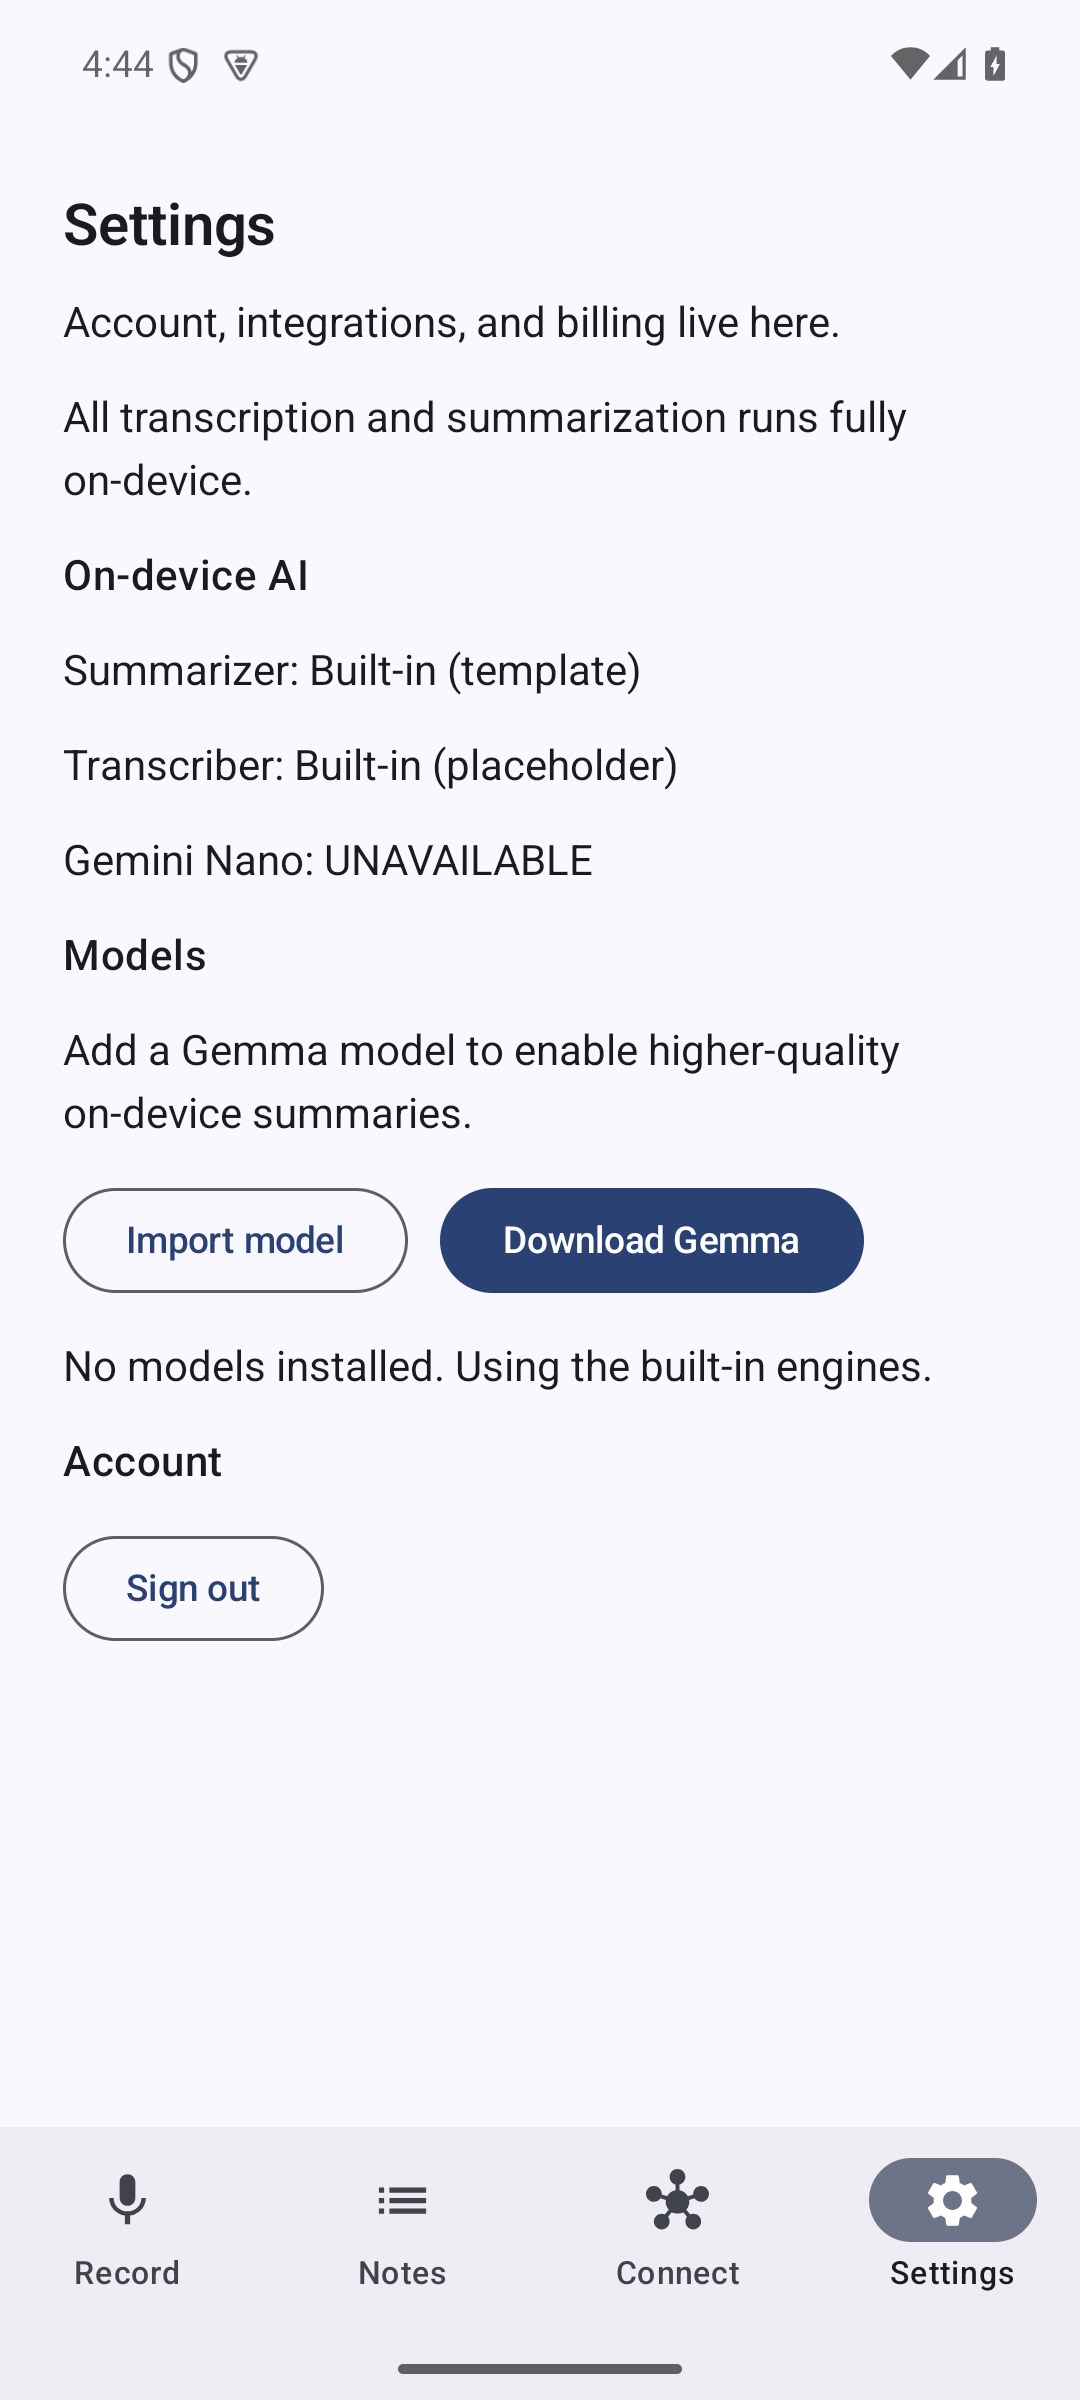
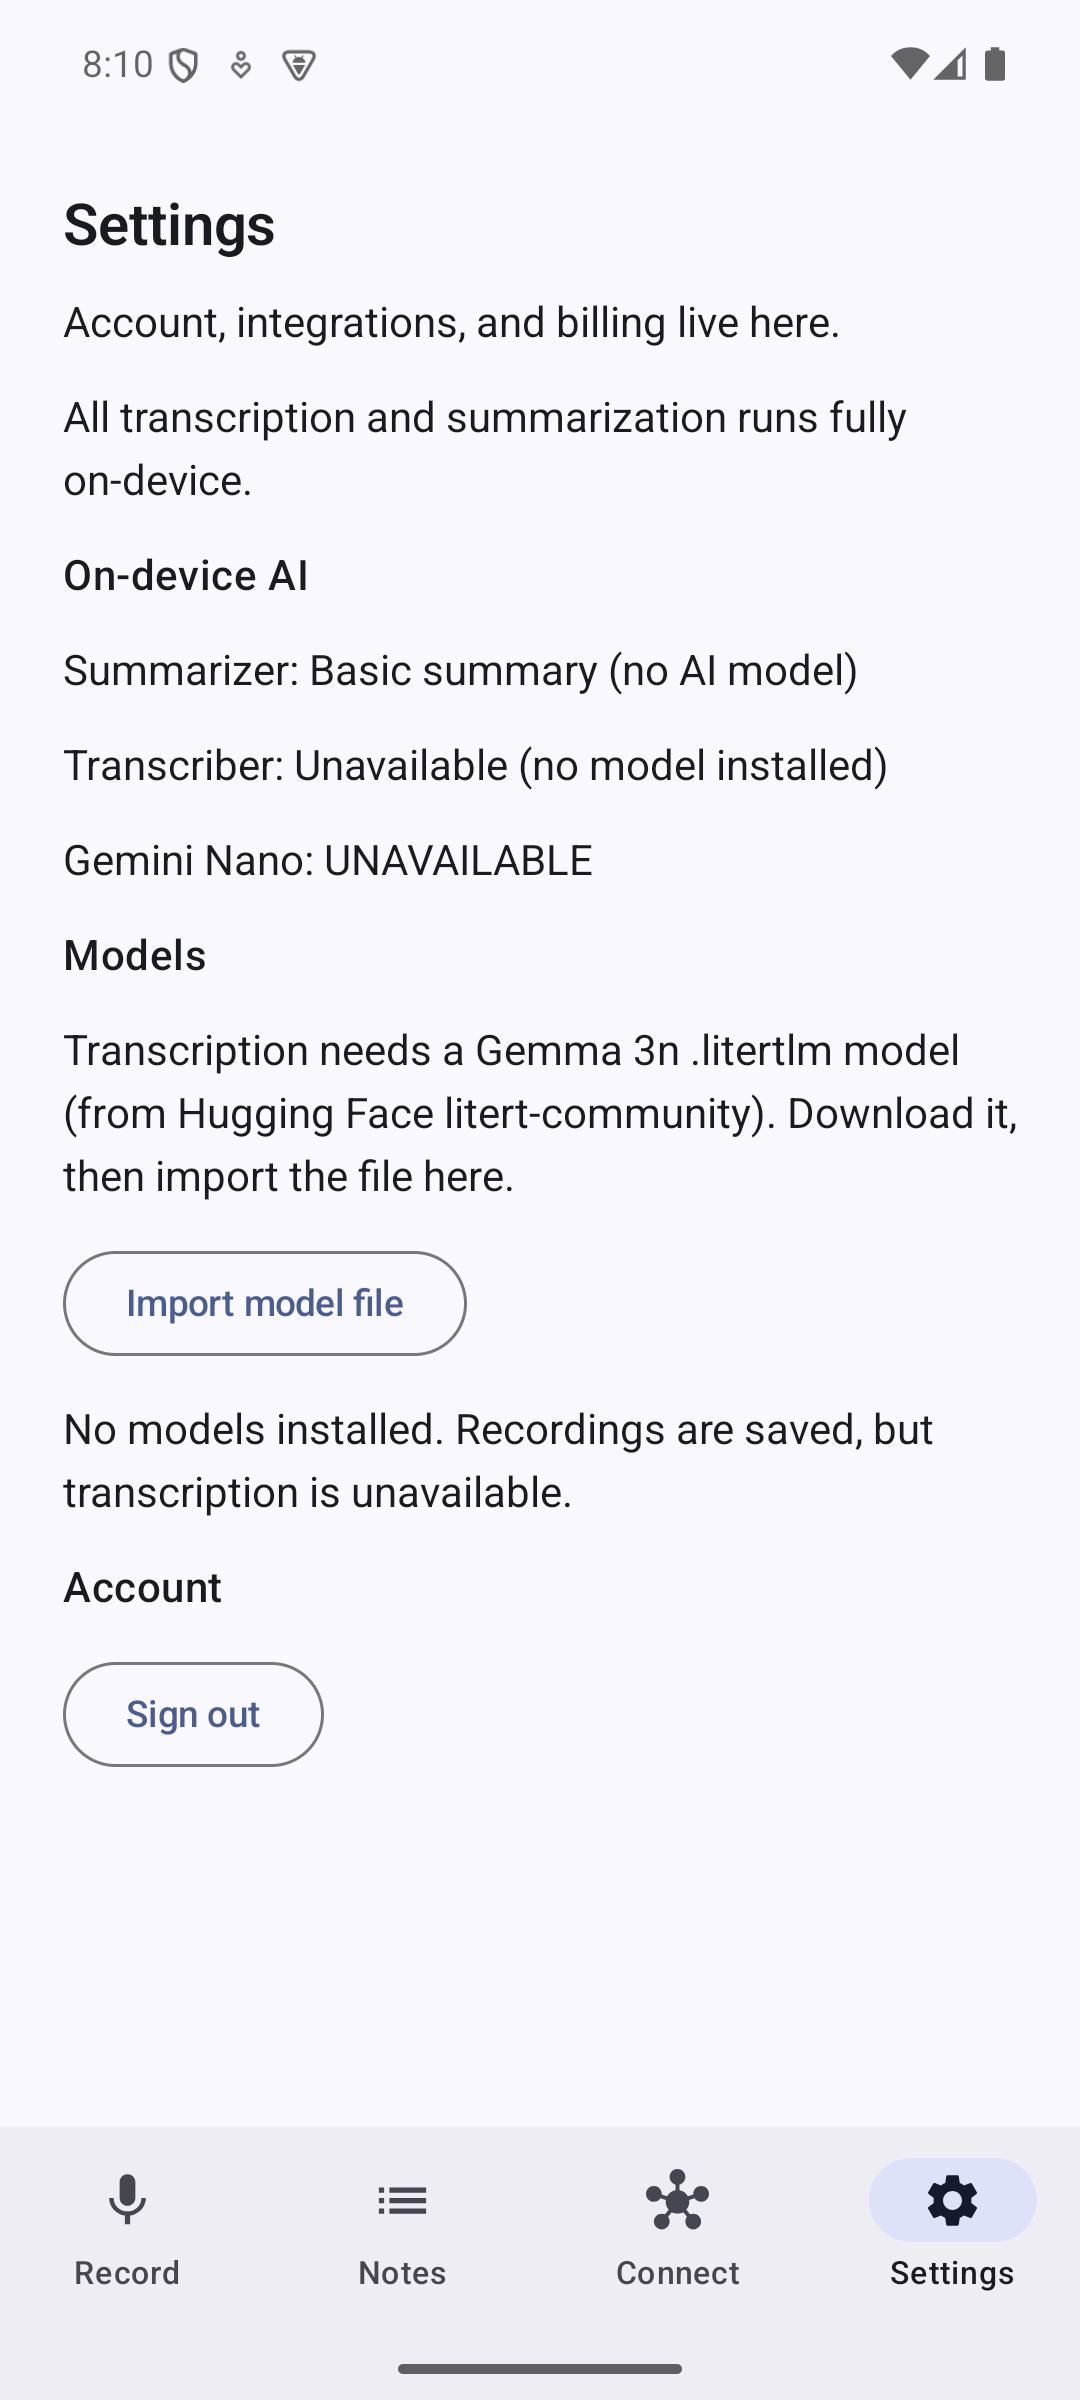
README: fresh emulator screenshots and an accurate engine story
- Three screenshots from an Android 15 emulator running main (record,
  Settings engines, the audio-only result with no model installed).
  store/screenshots/04_settings.png refreshed too; the old one showed
  the placeholder engines and the broken download button.
- Say plainly that transcription needs an imported Gemma 3n model, that
  SpeechRecognizer file input is not wired, which providers really
  export, and that the v1.0.0 APKs predate the fallback fix.
- Test count from this run (356), CI badge, links to the sibling repos.
- ROADMAP rewritten to the current state (shared across the three repos).

diff --git a/README.md b/README.md
@@ -1,90 +1,97 @@
-# notova-android
+# Notova for Android
 
-Notova for Android — on-device AI voice capture & notes (Kotlin/Jetpack Compose). Record from any
-mic or audio file; transcribe and summarize **fully on-device**; export to your apps.
+[![Android CI](https://github.com/sandeepvijayarao09/notova-android/actions/workflows/android.yml/badge.svg)](https://github.com/sandeepvijayarao09/notova-android/actions/workflows/android.yml)
+[![License: Apache-2.0](https://img.shields.io/badge/License-Apache_2.0-blue.svg)](LICENSE)
 
-The backend exists only for accounts, OAuth integration brokering, metadata sync, and billing — it
-**never** performs AI compute. Transcription and summarization run locally (see
-[On-device AI engines](#on-device-ai-engines)).
+Record a meeting or voice memo, and Notova transcribes and summarizes it on the phone
+with Gemma running locally. Kotlin, Jetpack Compose, nine Gradle modules.
 
-**1.0.0 — working on-device pipeline**: record (foreground service) → transcribe → summarize →
-save, with an offline "Continue without an account" mode.
+<p>
+  <img src="docs/screenshots/android_record.png" width="250" alt="Record screen">
+  <img src="docs/screenshots/android_settings.png" width="250" alt="Settings showing which on-device engines are active">
+  <img src="docs/screenshots/android_unavailable.png" width="250" alt="Record screen after a recording with no transcription model installed">
+</p>
 
-## Module map
+<sub>Captured on an Android 15 emulator with no model installed. Notova keeps the audio
+and says transcription is unavailable instead of inventing a transcript.</sub>
 
-| Module | Type | Responsibility |
-| --- | --- | --- |
-| `:app` | Android application (`com.notova.app`) | `@HiltAndroidApp` `NotovaApp`, `MainActivity` (Compose + Navigation: Record / Notes / Settings), `ProcessRecordingWorker` (WorkManager). Depends on every module. |
-| `:core` | Android library (`com.notova.core`) | Pure domain: models, the on-device pipeline interfaces (`AudioSource`, `Transcriber`, `Summarizer`, `IntegrationExporter`), fallback impls, and `PipelineUseCase`. |
-| `:ai` | Android library (`com.notova.ai`) | On-device engines and resolvers: Gemma via LiteRT-LM (transcription + summarization), Gemini Nano via ML Kit GenAI, Android SpeechRecognizer; `ModelStore` / model downloader. Hilt `AiModule` wires the engine chains. Has tests. |
-| `:data` | Android library (`com.notova.data`) | Room database (`Recording` + `Summary` entities/DAOs), `RecordingRepository` impl, DataStore preferences, Hilt modules. |
-| `:design` | Android library (`com.notova.design`) | Compose `NotovaTheme`, typography, shared components. |
-| `:integrations` | Android library (`com.notova.integrations`) | Retrofit `NotovaBackendApi` for the `/v1` contract + DTOs, `IntegrationExporter` impl, networking Hilt module. |
-| `:feature:record` | Android library (`com.notova.feature.record`) | `RecordScreen` + `RecordViewModel`; `MediaRecorderAudioSource` (MediaRecorder capture, Bluetooth SCO routing, file import via Storage Access Framework `OpenDocument`). |
-| `:feature:notes` | Android library (`com.notova.feature.notes`) | `NotesListScreen` / `NoteDetailScreen` + ViewModels. |
+Part of Notova:
+[notova-ios](https://github.com/sandeepvijayarao09/notova-ios) ·
+[notova-backend](https://github.com/sandeepvijayarao09/notova-backend) ·
+[roadmap](ROADMAP.md)
 
-Supporting files: `gradle/libs.versions.toml` (version catalog), `config/detekt.yml`, `.editorconfig`,
-`.github/workflows/android.yml` (temurin JDK 17, `./gradlew assembleDebug`).
+## Highlights
 
-## Build instructions
+- **On-device engines, picked at call time.** `ResolvingTranscriber` and
+  `ResolvingSummarizer` try engines in priority order and report the active one in
+  Settings.
 
-**JDK 17 is required.** A newer JDK on `PATH` will break AGP/Kotlin — always pin `JAVA_HOME`.
+  | Stage | Engine chain |
+  | --- | --- |
+  | Transcription | Gemma 3n audio via LiteRT-LM (16 kHz mono PCM, 30 s windows). No fake fallback. |
+  | Summaries | Local Gemma via LiteRT-LM → Gemini Nano (ML Kit GenAI, AICore devices) → basic extract labelled "no AI model" |
+
+  One imported Gemma 3n `.litertlm` file powers both transcription and summaries.
+- **Background-safe capture**: a foreground recording service, Bluetooth SCO routing,
+  file import through the Storage Access Framework, and WorkManager processing for long
+  imports.
+- **Hilt, Room, DataStore, Retrofit, WorkManager**; ktlint, detekt, Android Lint and an R8
+  release build in CI.
+- **356 JVM unit and Robolectric tests**, all run in CI on every push.
+
+## Try it
+
+The [v1.0.0 release](https://github.com/sandeepvijayarao09/notova-android/releases/tag/v1.0.0)
+has test-signed APKs (`arm64-v8a` for phones, `x86_64` for emulators). They predate the
+honest-fallback change below, so build from `main` for the current behavior.
+
+To transcribe, download a Gemma 3n LiteRT-LM model (for example
+`gemma-3n-E2B-it-int4.litertlm` from the `litert-community` org on Hugging Face; you must
+accept Gemma's license there), then use **Settings → Import model file**. Without a model,
+recordings are saved and marked as not transcribed. `SpeechRecognizer` is in the chain but
+reports itself unavailable: feeding it a recorded file is not wired yet.
+
+## Build
+
+JDK 17 is required; newer JDKs break this AGP/Kotlin combination.
 
 ```bash
-# Point local.properties at your SDK (gitignored):
-echo "sdk.dir=$HOME/Library/Android/sdk" > local.properties
+git clone https://github.com/sandeepvijayarao09/notova-android.git
+cd notova-android
+echo "sdk.dir=$HOME/Library/Android/sdk" > local.properties   # your SDK path
 
-# Build the debug APK
-JAVA_HOME=/opt/homebrew/opt/openjdk@17 ./gradlew :app:assembleDebug
-
-# Unit tests
-JAVA_HOME=/opt/homebrew/opt/openjdk@17 ./gradlew testDebugUnitTest
-
-# Static analysis
-JAVA_HOME=/opt/homebrew/opt/openjdk@17 ./gradlew detekt ktlintCheck
+export JAVA_HOME=/path/to/jdk-17
+./gradlew :app:assembleDebug          # APKs in app/build/outputs/apk/debug/
+./gradlew testDebugUnitTest           # unit + Robolectric tests
+./gradlew ktlintCheck detekt lint     # static analysis
 ```
 
-### Toolchain versions
+### Accounts and export (optional)
 
-| Tool | Version |
+Sign-in, sync and export go through [notova-backend](https://github.com/sandeepvijayarao09/notova-backend),
+which has no public deployment. The default backend URL is `http://10.0.2.2:8787/`, i.e.
+a local `npm run dev` server seen from the emulator; cleartext HTTP is allowed only for
+that host and localhost. Build against another deployment with
+`./gradlew assembleDebug -Pnotova.backendUrl=https://your-host/`. Providers match the
+backend: Notion export works; Google, Slack and Salesforce connect but the backend
+returns 501 for export.
+
+## Modules
+
+| Module | Responsibility |
 | --- | --- |
-| Android Gradle Plugin | 8.7.3 |
-| Kotlin | 2.0.21 (Compose compiler = built-in `kotlin.plugin.compose`) |
-| Gradle (wrapper) | 8.13 |
-| compileSdk / targetSdk | 35 |
-| minSdk | 26 |
-| JDK | 17 |
+| `:app` | `NotovaApp`, `MainActivity` (Record / Notes / Connect / Settings), `ProcessRecordingWorker`, recording service |
+| `:core` | Domain models, pipeline interfaces, `PipelineUseCase`, the basic extractive summarizer |
+| `:ai` | Gemma via LiteRT-LM (transcription and summaries), Gemini Nano, `SpeechRecognizer` engine, resolvers, `ModelStore` / `ModelDownloader` |
+| `:data` | Room database, `RecordingRepository`, DataStore |
+| `:design` | Compose theme and shared components |
+| `:integrations` | Retrofit client for the backend `/v1` API, auth/token storage, export |
+| `:feature:record` | Record screen and `MediaRecorderAudioSource` |
+| `:feature:notes` | Notes list and detail |
 
-Stack: Jetpack Compose (BOM) + Material3, Navigation-Compose, Hilt, Coroutines/Flow, Room,
-DataStore, Retrofit + OkHttp + kotlinx-serialization, WorkManager, KSP. Lint via ktlint + detekt.
-
-## On-device AI engines
-
-`ResolvingTranscriber` and `ResolvingSummarizer` pick the first available engine at call time, in
-priority order, and expose the active engine to Settings:
-
-| Stage | Engine chain (highest priority first) |
-| --- | --- |
-| **Transcription** | **Gemma 3n audio** via LiteRT-LM (16 kHz mono PCM, ≤30 s windows streamed to the model) → Android on-device `SpeechRecognizer` → built-in fallback |
-| **Summarization** | **Local Gemma** (`.litertlm` bundle via LiteRT-LM) → **Gemini Nano** (ML Kit GenAI Summarization / AICore) → built-in fallback |
-
-One installed Gemma model serves both transcription and summarization. Every engine's availability
-is guarded (no model installed, native load failure, unsupported device), so emulators and older
-phones fall through cleanly. The `SpeechRecognizer` engine's availability checks are real, but
-feeding it a pre-recorded file is still to be wired, so today it defers to the next engine.
-
-`PipelineUseCase` composes `Transcriber` + `Summarizer` (audio file → transcript → summary). The
-Record flow (`RecordViewModel`) and the background `ProcessRecordingWorker` both depend only on
-`PipelineUseCase`, so a new engine (e.g. Whisper) is one class plus one entry in `AiModule`.
-
-### Backend `/v1` contract
-
-`NotovaBackendApi` targets: auth (`register` / `login` / `refresh` / `me`), integrations (list,
-`:provider/connect`, `callback`, `:provider/export`, `disconnect`), sync (`recordings` GET/PUT),
-and billing (`subscription`, `checkout`). OAuth returns via the `notova://` deep link scheme
-(registered in the app manifest).
+Toolchain: AGP 8.7.3, Kotlin 2.0.21, Gradle 8.13, compileSdk/targetSdk 35, minSdk 26.
 
 ## License
 
-Apache-2.0. See `LICENSE` and `NOTICE`. On-device AI models carry their own separate licenses and
-are not bundled in this scaffold.
+Apache-2.0. See [LICENSE](LICENSE) and [NOTICE](NOTICE). Models carry their own licenses
+and are not bundled.

diff --git a/ROADMAP.md b/ROADMAP.md
@@ -1,92 +1,38 @@
 # Notova Roadmap
 
-Notova is an **app-only, on-device AI voice-notes** product: capture audio from any
-source (phone mic, Bluetooth mic, other input devices, or an imported file),
-transcribe and summarize it **fully on-device**, and export the result to the apps
-you already use. A small backend handles only what must be server-side — accounts,
-OAuth brokering, metadata sync, and billing. **AI never runs on the server.**
+Notova is an on-device AI voice-notes app: record or import audio, transcribe and
+summarize it on the device, and optionally export the result through a small
+backend that handles only accounts, OAuth brokering, metadata sync and billing.
+AI never runs on the server.
 
-This roadmap is shared across the three repos: `notova-ios`, `notova-android`,
-`notova-backend`.
+This file is shared by the three repos:
+[notova-ios](https://github.com/sandeepvijayarao09/notova-ios) (iPhone + Mac),
+[notova-android](https://github.com/sandeepvijayarao09/notova-android) and
+[notova-backend](https://github.com/sandeepvijayarao09/notova-backend).
 
----
+## Where things stand (October 2026)
 
-## Phase 0 — Foundation ✅ (done)
+| Area | iOS / macOS | Android | Backend |
+| --- | --- | --- | --- |
+| Transcription | Apple Speech, on-device. No fake fallback: if it can't run, the app keeps the audio and says so. | Gemma 3n audio via LiteRT-LM, once the user imports a `.litertlm` model. `SpeechRecognizer` file input is not wired yet. No fake fallback. | n/a |
+| Summaries | Local Gemma via MLX (opt-in build flag), then Apple Foundation Models (iOS 26+), then a labelled basic extract. | Local Gemma via LiteRT-LM, then Gemini Nano (AICore devices), then a labelled basic extract. | n/a |
+| Export | Through the backend. Notion is implemented server-side; Google, Slack and Salesforce connect but export returns 501. | Same contract and provider list. | Notion page creation; others 501. |
+| Deployment | Source only; no TestFlight build. | Test-signed APKs on the v1.0.0 release. | Docker image and compose file; not deployed anywhere public. Both apps default to a local dev server. |
 
-- Three repos scaffolded to industry-standard structure, Apache-2.0 licensed.
-- Shared **domain model** (`Recording` / `Transcript` / `Summary` / `IntegrationExport`)
-  and an on-device **pipeline** seam: `AudioSource → Transcriber → Summarizer →
-  IntegrationExporter`, all behind protocols/interfaces with working stubs.
-- Backend `/v1` API: auth (JWT), OAuth broker (PKCE + AES-256-GCM token encryption),
-  metadata sync, billing stub.
-- Both mobile clients reconciled to the backend contract (identical mapping rules).
-- ~648 tests across the three repos; CI on each.
+## Next
 
-The stubs are the seam: each real engine below is a **drop-in** replacement for a
-`StubTranscriber` / `StubSummarizer`, wired through `AppContainer` (iOS) /
-Hilt `PipelineModule` (Android). No feature code changes when an engine is swapped.
+1. **Android transcription without a model.** Feed recorded files to the platform
+   `SpeechRecognizer` (API 33+ `EXTRA_AUDIO_SOURCE`), or bundle whisper.cpp tiny/base
+   through JNI, so a fresh install can transcribe.
+2. **In-app model download** on both platforms: one curated Gemma entry with size,
+   checksum and progress instead of manual import.
+3. **Deploy the backend** to a domain the project controls, then set
+   `NOTOVA_BACKEND_URL` (iOS) / `-Pnotova.backendUrl` (Android) for release builds.
+4. **One more real export** (Slack message or Google Tasks), or trim the provider list.
+5. **Distribution:** TestFlight for iOS/macOS; a Play internal-testing track for Android.
 
----
+## Later
 
-## Phase 1 — On-device transcription (Whisper)
-
-Replace `StubTranscriber` with a real on-device ASR engine. Target output is the
-shared `Transcript` (full text + timed segments + language).
-
-| Platform | Primary option | Alternatives |
-|----------|----------------|--------------|
-| iOS | **WhisperKit** (CoreML Whisper) | Apple `SpeechTranscriber` (iOS 26 on-device); `whisper.cpp` |
-| Android | **whisper.cpp via JNI** | LiteRT/TFLite Whisper; platform `SpeechRecognizer` |
-
-- Ship a small model by default (`base`/`small`, ~150–500 MB) and let users opt into
-  a larger/turbo model on capable devices.
-- Run transcription off the main thread; show progress; persist partial results.
-- Tradeoffs to track: model size vs accuracy vs latency vs battery; language coverage.
-
-## Phase 2 — On-device summarization (Gemma 3n E4B)
-
-Replace `StubSummarizer` with an on-device LLM. Target output is the shared `Summary`
-(markdown + action items; mind map later).
-
-| Platform | Runtime |
-|----------|---------|
-| Android | **MediaPipe LLM Inference / LiteRT-LM** (Google AI Edge), GPU/NPU accelerated |
-| iOS | **MLX** (Apple) or MediaPipe LLM Inference iOS |
-
-- **Gemma 3n E4B** is the current target (on-device, ~4B effective params, int4
-  quantized). Gate by device capability (RAM/accelerator); fall back to E2B or a
-  smaller model on constrained devices.
-- Structured prompting → markdown summary + extracted action items (JSON-constrained
-  output validated against the `Summary` schema).
-- Gemma 3n's audio modality could later fold transcription + summarization into one
-  pass — kept open by the swappable seam.
-- Tradeoffs: first-token latency, memory headroom, thermals/battery, output quality.
-
-## Phase 3 — Integrations (export targets)
-
-OAuth via the backend broker (already built: PKCE, encrypted tokens, `notova://`
-deep-link return). Each provider implements the `IntegrationExporter` seam.
-
-- **Notes/docs:** Notion (export shape already scaffolded), Obsidian, Google Docs, Apple Notes (iOS share sheet).
-- **Calendar/tasks:** turn action items into Google Calendar events, Todoist/Things/Reminders tasks.
-- **Comms/CRM:** post to Slack, send email, log activities to Salesforce/HubSpot.
-
-Build order is driven by demand — first concrete target TBD (Notion and Google
-Calendar are the natural first two).
-
-## Phase 4 — Product hardening
-
-- Account + cross-device **metadata** sync (endpoints exist; wire the clients).
-- **Billing** (free/Pro): Stripe / RevenueCat / App Store; backend stub exists.
-- Mind-map visualization; speaker diarization; background processing
-  (WorkManager / `BGProcessingTask`).
-
----
-
-## Known follow-ups (carried from the build)
-
-- Widen the `:core` `IntegrationExporter` interface to receive the full
-  `Recording` + `Transcript` (not just `Summary`) so the richer `ContractMappers`
-  path is used directly (Android note).
-- Decide a default + opt-in policy for model downloads (size/network/storage UX).
-- Add a CONTRIBUTING guide and issue templates per repo.
+- Account and cross-device metadata sync in the clients (endpoints exist).
+- Billing (free/Pro) through StoreKit / Play Billing; the backend has a stub.
+- Speaker diarization, mind-map view, background processing on iOS (`BGProcessingTask`).
